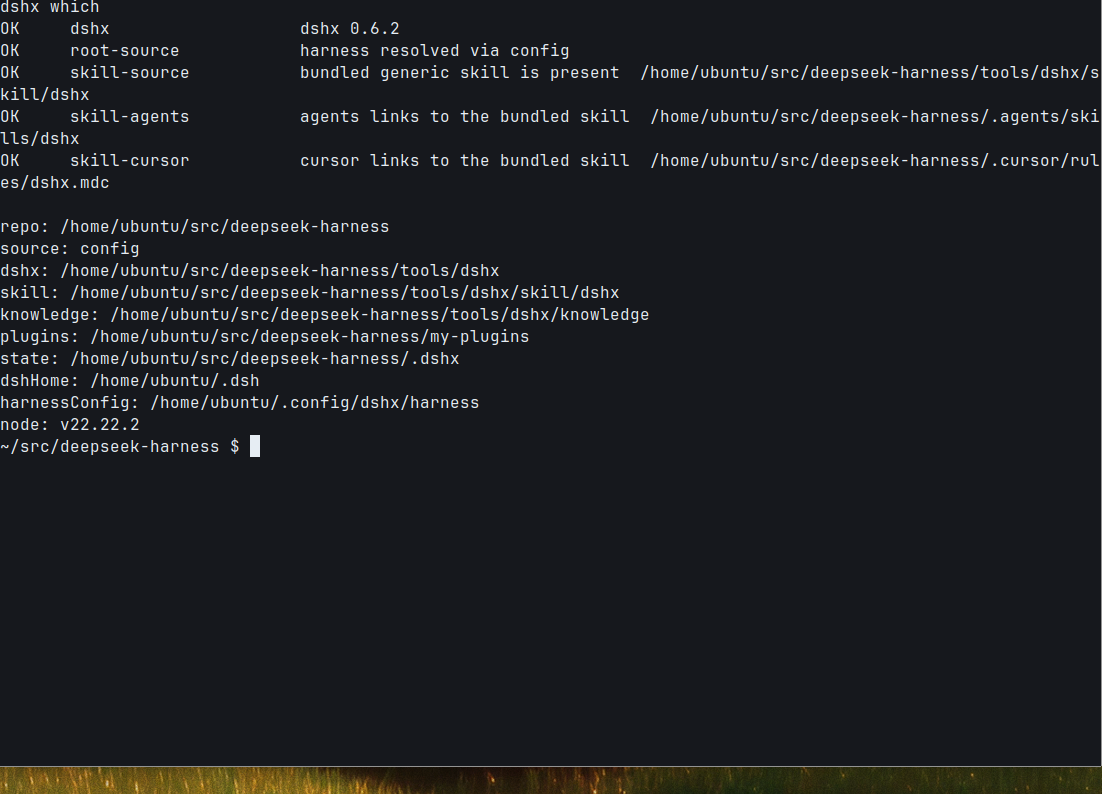
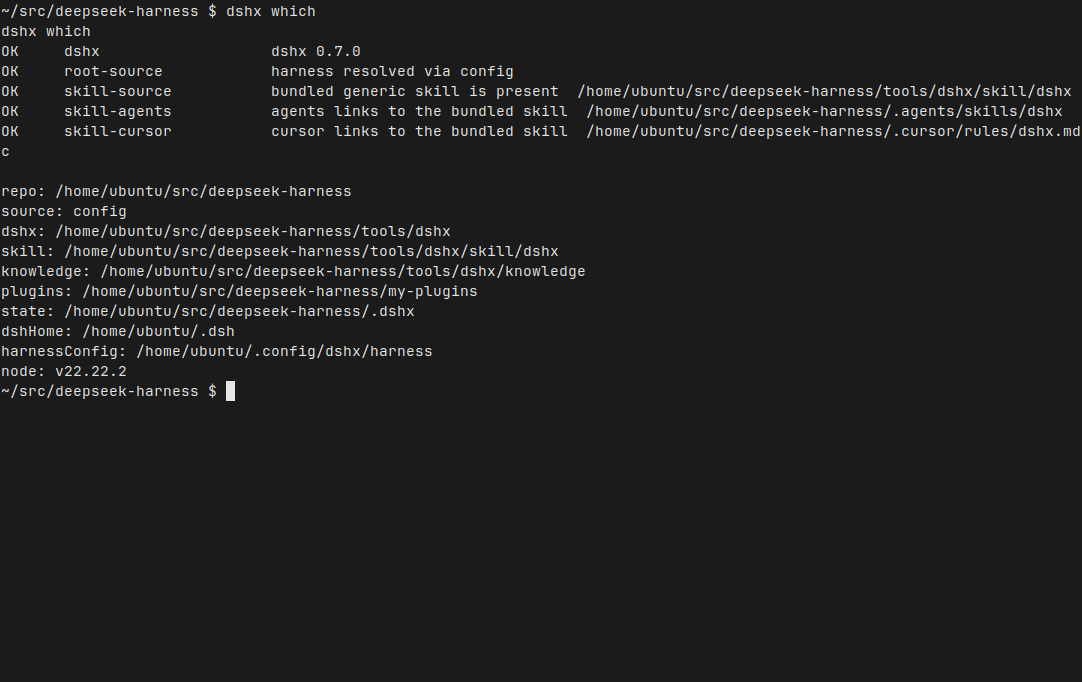
Rewrite the public README for 0.7.0 with real update-assistant shots.
Bilingual pages lead with the transactional Harness update CLI. Stills
and the hero GIF are xfce4-terminal runs of this 0.7.0 tree: setup,
which, doctor, check, activation-plan, update plan, and update verify
against dsh-v0.1.1-rc.2. Official Web UI was not booted.

diff --git a/README.en.md b/README.en.md
@@ -4,11 +4,15 @@
 
 An out-of-process plugin workshop for [DeepSeek Harness](https://github.com/deepseek-ai/deepseek-harness). For Cursor, Claude Code, Codex, Grok, and humans.
 
-Official Creator Mode is for probing a live process. dshx is the other half: write the plugin as files, check the contract, name the layer you changed, then decide whether the Host restarts or the page reloads. It is not `dsh`, not a Harness fork, and not a plugin pack.
+Official Creator Mode is for probing a live process. dshx is the other half: write the plugin as files, check the contract, name the layer you changed, then decide whether the Host restarts or the page reloads. **It is not `dsh`, not a Harness fork, and not a Creator Mode replacement.**
 
-![Local dshx activation-plan run: inventory for the hello plugin, then a patch branch that needs no Host restart and no page reload](docs/screenshots/activation-plan.gif)
+0.7.0 adds a transactional update assistant: official release, candidate build, plugin cold boot, and exact rollback as separate gates. It **does not** restart a production Host for you.
 
-That GIF is the local CLI. This machine has a DeepSeek Harness checkout with dependencies installed, so `doctor` and `activation-plan` can run `dump-config`. The official Web UI was not booted. There is no official window to show.
+![Local xfce4-terminal: `dshx update plan` (rc.8 → rc.2), then `dshx update verify --target dsh-v0.1.1-rc.2`; hello plugin cold-boot passed](docs/screenshots/update-plan.gif)
+
+*2026-08-25 · machine `cursor` (Linux) · `dshx update plan` → `dshx update verify --target dsh-v0.1.1-rc.2`*
+
+That GIF is the local CLI. The Harness checkout is `dsh-v0.1.0-rc.8` with dependencies installed, so `doctor`'s `dump-config` can run. The official Web UI was not booted. There is no official window to show. `dump-config` exiting 0 is not a boot proof.
 
 ## Install
 
@@ -17,50 +21,89 @@ cd /path/to/deepseek-harness
 git clone https://github.com/aa2246740/dsh-external-plugin-devkit.git tools/dshx
 node --import tsx/esm tools/dshx/src/cli.ts setup --harness "$PWD"
 dshx which && dshx doctor
+dshx update plan
 ```
 
-`setup` installs a user launcher and the skill, and remembers this checkout. It does not edit Harness `package.json`, and it does not start or stop DSH.
-
-If more than one checkout is in play, pass `--harness`. Do not let the tool guess.
+`setup` installs a user launcher and the skill, and remembers this checkout. It does not edit Harness `package.json`, and it does not start or stop DSH. If more than one checkout is in play, pass `--harness`.
 
 You can hand the block above to an Agent. `dshx setup --print-prompt` prints the full ask.
 
 ## What it looks like
 
-The five stills below are from the same local run. `dump-config` exited 0 — that is not a boot proof, and the official UI was not opened.
+The stills below are from the same local run. The official UI was not opened.
 
 `setup` puts the launcher in place and leaves the Host alone:
 
 ![dshx setup: launcher, skill, and checkout all OK; notes that it will not start or stop dsh](docs/screenshots/setup.png)
 
-`which` names the Harness checkout and the skill paths in use:
+*2026-08-25 · machine `cursor` (Linux) · `dshx setup`*
 
-![dshx which: 0.6.2, Harness from config, skill linked for agents and Cursor](docs/screenshots/which.png)
+`which` names the Harness checkout and the dshx tree in use:
+
+![dshx which: 0.7.0, Node v22.22.2, Harness from config](docs/screenshots/which.png)
+
+*2026-08-25 · machine `cursor` (Linux) · `dshx which`*
 
 `doctor` is a workshop diagnostic. It is not official `dsh doctor` — that command does not exist:
 
-![dshx doctor: Node, the source launcher, and dump-config pass; dump-config is not a boot proof; no Host is supervised](docs/screenshots/doctor.png)
+![dshx doctor: Node and dump-config (135 rows) pass; dump-config is not a boot proof; no Host is supervised](docs/screenshots/doctor.png)
+
+*2026-08-25 · machine `cursor` (Linux) · `dshx doctor`*
 
 `check` is the on-disk contract. A fresh `init` of `hello` can pass:
 
 ![dshx check hello: manifest, named apply, boot marker, and a relative overlay all OK](docs/screenshots/check.png)
 
+*2026-08-25 · machine `cursor` (Linux) · `dshx check hello`*
+
 `activation-plan` reads disk facts, then takes one changed surface. This run chose `patch`: reconcile in place, do not restart the Host:
 
 ![dshx activation-plan hello --change patch: method is watched cordis.patch.yml; host-restart and browser-reload are not-required](docs/screenshots/activation-plan.png)
 
+*2026-08-25 · machine `cursor` (Linux) · `dshx activation-plan hello --change patch`*
+
+## 0.7.0 update assistant
+
+An update is more than `git pull`. The gates are staged. Without `--target`, DSHX queries the latest official `dsh-v*` release live.
+
+```sh
+dshx update plan
+dshx update prepare --target dsh-v0.1.1-rc.2
+dshx update verify --target dsh-v0.1.1-rc.2
+dshx update apply --target dsh-v0.1.1-rc.2
+dshx update rollback --target dsh-v0.1.1-rc.2
+```
+
+This machine planned `0.1.0-rc.8` → `0.1.1-rc.2`, inventoried one plugin, and was not supervising a Host:
+
+![dshx update plan: current 0.1.0-rc.8 → target 0.1.1-rc.2; no tracked dirty; one plugin](docs/screenshots/update-plan.png)
+
+*2026-08-25 · machine `cursor` (Linux) · `dshx update plan`*
+
+`prepare` does a frozen install and full target-Harness build in an isolated worktree, then copies and builds every plugin. It does not switch the active checkout. `verify` runs the static contract and an isolated cold boot for every candidate plugin — `hello` passed here:
+
+![dshx update verify: candidate build passed; hello build/check/cold-boot all true; 1/1 verify-gate; source plugin bytes untouched](docs/screenshots/update-verify.png)
+
+*2026-08-25 · machine `cursor` (Linux) · `dshx update verify --target dsh-v0.1.1-rc.2`*
+
+`apply` accepts only a complete candidate gate, refuses a supervised Host, transactionally switches to `dshx/<release>`, and keeps an exact backup. `rollback` restores the pre-update branch, dependencies, and plugin `lib/`.
+
+Keep three states distinct:
+
+- **Upgrade complete** — checkout is on the target tag; backups live under `.dshx/update-assistant/`
+- **Live runtime proof** — you ran the Host / browser and saw the behavior
+- **Official activation** — the single branch from `activation-plan` actually mounted
+
+The assistant does not restart a production Host. See [knowledge/contracts/harness-update.md](knowledge/contracts/harness-update.md).
+
 ## There is no universal hot reload
 
-A watched patch, a next-boot bundle, a user preset, a client already on the page, a new client entry, a server module, and a copied artifact are seven different states. Read the contract, then pick one branch:
-
-Keep the same DSH PID by default and classify the runtime surface that must change. A plain profile dependency is a resolution prerequisite, not manifest activation or restart evidence. A first Web client remains `new-client` even though its activation writes a dependency: hot-mount the Host row, then reload/reopen the page. Only boot-captured bundle composition or a server module without tested HMR authorizes a normal Host restart.
+A watched patch, a next-boot bundle, a user preset, a client already on the page, a new client entry, a server module, and a copied artifact are seven different states. Keep the same DSH PID by default. A plain dependency is not `manifest` activation and not a restart reason.
 
 ```sh
 dshx kb cat contracts/live-activation
 dshx activation-plan <plugin> --change patch
 ```
-
-The matrix lives in [knowledge/contracts/live-activation.md](knowledge/contracts/live-activation.md).
 
 ## A normal day
 
@@ -69,25 +112,6 @@ dshx init demo --kind function
 dshx check demo
 dshx activation-plan demo --change patch
 ```
-
-## Harness update assistant
-
-An update is more than `git pull`. DSHX 0.7.0 gates the official release, the Harness build, every local plugin, and exact rollback as separate phases:
-
-```sh
-dshx update plan
-dshx update prepare --target dsh-v0.1.1-rc.2
-dshx update verify --target dsh-v0.1.1-rc.2
-dshx update apply --target dsh-v0.1.1-rc.2
-```
-
-- `plan` reads official `dsh-v*` tags, the current checkout, tracked-dirty risk, and directory/symlink plugin inventory without mutation.
-- `prepare` performs a frozen install and full target-Harness build in an isolated worktree, then copies and builds every plugin. It does not switch the active Harness.
-- `verify` runs the static contract and an isolated cold boot for every candidate plugin. RC2 Web clients use the native profile package seam and must appear in the boot graph with a 200 `client.js`; server-only plugins must emit their `apply()` marker.
-- `apply` accepts only a complete candidate gate, refuses a supervised Host, transactionally switches to `dshx/<release>`, rebuilds the actual plugins, and saves exact checkout, dependency-tree, and plugin-`lib/` backups.
-- `rollback` restores the pre-update branch, dependencies, and generated plugin artifacts: `dshx update rollback --target <release>`.
-
-Without `--target`, DSHX queries the latest official release live. The assistant does not restart a production Host: applied bytes, real-runtime acceptance, and production activation remain separate states. See [knowledge/contracts/harness-update.md](knowledge/contracts/harness-update.md).
 
 Use `verify-boot` only when you need an isolated cold-boot proof. Use `sync-artifact` only when a package must land in the profile — it will say `ARTIFACT_SYNCED; LIVE_ACTIVATION_UNPROVEN` and stop there.
 

diff --git a/README.md b/README.md
@@ -4,11 +4,15 @@
 
 DeepSeek Harness 的进程外插件工作台。给 Cursor、Claude Code、Codex、Grok 和人用。
 
-官方 Creator Mode 适合在活进程里探针。dshx 管另一半：把插件写成文件、检查合同、看这次改的是哪一层，再决定要不要重启 Host、刷新页面。它不是 `dsh`，不是 Harness 的 fork，也不是一包现成插件。
+官方 Creator Mode 适合在活进程里探针。dshx 管另一半：把插件写成文件、检查合同、看这次改的是哪一层，再决定要不要重启 Host、刷新页面。**不是 `dsh`，不是 Harness 的 fork，也不是 Creator Mode 的替代品。**
 
-![在本机跑 dshx activation-plan：先打出 hello 插件的盘上事实，再给出 patch 分支——Host 不用重启，页面也不用刷新](docs/screenshots/activation-plan.gif)
+0.7.0 加上事务化更新助手：官方 release、候选构建、插件冷启动、精确回滚分阶段过门。它**不会**替你重启正式 Host。
 
-上面是本机刚跑过的 CLI。这台机器有一份 DeepSeek Harness 源码，依赖也装上了，所以 `doctor` / `activation-plan` 能跑 `dump-config`。官方 Web UI 没有起来，所以没有官方窗口。
+![本机 xfce4-terminal：先 `dshx update plan`（rc.8 → rc.2），再 `dshx update verify --target dsh-v0.1.1-rc.2`，hello 插件 cold-boot 通过](docs/screenshots/update-plan.gif)
+
+*2026-08-25 · 机器 `cursor`（Linux）· `dshx update plan` → `dshx update verify --target dsh-v0.1.1-rc.2`*
+
+上面是本机刚跑过的 CLI。Harness 在 `dsh-v0.1.0-rc.8`，依赖已装，所以 `doctor` 的 `dump-config` 能过。官方 Web UI 没有起来，所以没有官方窗口。`dump-config` 退出 0 不是 boot 证明。
 
 ## 装上就能用
 
@@ -17,77 +21,97 @@ cd /path/to/deepseek-harness
 git clone https://github.com/aa2246740/dsh-external-plugin-devkit.git tools/dshx
 node --import tsx/esm tools/dshx/src/cli.ts setup --harness "$PWD"
 dshx which && dshx doctor
+dshx update plan
 ```
 
-`setup` 只装用户 launcher 和 skill，记住这个 checkout。不改 Harness 的 `package.json`，也不启停 DSH。
-
-多个 checkout 同时在场时，加上 `--harness`，不要让工具猜。
+`setup` 只装用户 launcher 和 skill，记住这个 checkout。不改 Harness 的 `package.json`，也不启停 DSH。多个 checkout 同时在场时加上 `--harness`。
 
 把上面这段交给 Agent 也行；`dshx setup --print-prompt` 会打出完整说明。
 
 ## 它实际长这样
 
-下面五张也是同一次本机演示。`dump-config` 通过了——这不是 boot 证明，官方界面也没开。
+同一次本机演示。官方界面没开。
 
 `setup` 装好 launcher，不碰 Host：
 
-![dshx setup：launcher、skill、checkout 都 OK，并写明不会启停 dsh](docs/screenshots/setup.png)
+![dshx setup：launcher、skill、checkout 都 OK；写明不会启停 dsh](docs/screenshots/setup.png)
 
-`which` 说出这次用的是哪份 Harness、哪份 skill：
+*2026-08-25 · 机器 `cursor`（Linux）· `dshx setup`*
 
-![dshx which：0.6.2，Harness 来自 config，skill 已链到 agents 和 Cursor](docs/screenshots/which.png)
+`which` 说出这次用的是哪份 Harness、哪份 dshx：
+
+![dshx which：0.7.0，Node v22.22.2，Harness 来自 config](docs/screenshots/which.png)
+
+*2026-08-25 · 机器 `cursor`（Linux）· `dshx which`*
 
 `doctor` 是工作台诊断，不是官方 `dsh doctor`（那个命令不存在）：
 
-![dshx doctor：Node、源码 launcher、dump-config 都通过；dump-config 不是 boot 证明；没有在监督 Host](docs/screenshots/doctor.png)
+![dshx doctor：Node、dump-config 135 行通过；dump-config 不是 boot 证明；没有在监督 Host](docs/screenshots/doctor.png)
+
+*2026-08-25 · 机器 `cursor`（Linux）· `dshx doctor`*
 
 `check` 看的是落盘合同。刚 `init` 出来的 `hello` 可以通过：
 
 ![dshx check hello：manifest、named apply、boot marker、相对路径 overlay 全部 OK](docs/screenshots/check.png)
 
+*2026-08-25 · 机器 `cursor`（Linux）· `dshx check hello`*
+
 `activation-plan` 只读盘上事实，然后只选一个变更面。这次是 `patch`：热重组，不重启 Host：
 
 ![dshx activation-plan hello --change patch：activation-method 是 watched cordis.patch.yml；host-restart / browser-reload 都是 not-required](docs/screenshots/activation-plan.png)
 
-## 没有万能热重载
+*2026-08-25 · 机器 `cursor`（Linux）· `dshx activation-plan hello --change patch`*
 
-改 watched patch、下次启动的 bundle、用户 preset、已经在页面里的 client、新的 client 入口、服务端模块，或只是拷了产物——这七种不是同一个动作。先读合同，再让 `activation-plan` 选一条分支：
+## 0.7.0 更新助手
 
-默认保持同一个 DSH PID，并按真正要改变的运行时表面分类。普通 profile dependency 只是解析前提，不是 `manifest` activation，也不是重启理由；首次 Web client 即使写入 dependency，仍走 `new-client`，Host 热挂后只刷新/重开页面。只有启动时捕获的 bundle composition 或没有专项 HMR 的 server module 才授权重启。
-
-```sh
-dshx kb cat contracts/live-activation
-dshx activation-plan <plugin> --change patch
-```
-
-完整矩阵在 [knowledge/contracts/live-activation.md](knowledge/contracts/live-activation.md)。
-
-## 日常怎么走
-
-```sh
-dshx init demo --kind function
-dshx check demo
-dshx activation-plan demo --change patch
-```
-
-## Harness 更新助手
-
-更新不是一次 `git pull`。DSHX 0.7.0 把官方 release、Harness 构建、全部本地插件和精确回滚放进一个分阶段门禁：
+更新不是一次 `git pull`。分阶段门禁；省略 `--target` 时会实时查询官方最新 `dsh-v*` release。
 
 ```sh
 dshx update plan
 dshx update prepare --target dsh-v0.1.1-rc.2
 dshx update verify --target dsh-v0.1.1-rc.2
 dshx update apply --target dsh-v0.1.1-rc.2
+dshx update rollback --target dsh-v0.1.1-rc.2
 ```
 
-- `plan` 只读官方 `dsh-v*` tag、当前 checkout、tracked dirty 风险、目录与 symlink 插件清单。
-- `prepare` 在隔离 worktree 冻结安装并完整构建目标 Harness，再复制和构建全部插件；不切换当前 Harness。
-- `verify` 对每个候选插件执行静态合同和隔离冷启动。RC2 Web 客户端走原生 profile 包解析，同时证明启动图条目与 `client.js` 200；服务端-only 插件证明 `apply()` marker。
-- `apply` 只接受完整候选门禁，拒绝正在监督的 Host，事务化切到 `dshx/<release>`、重建实际插件，并保存 checkout、依赖树和插件 `lib/` 的精确备份。
-- `rollback` 恢复升级前分支、依赖与插件生成物：`dshx update rollback --target <release>`。
+这次本机从 `0.1.0-rc.8` 规划到 `0.1.1-rc.2`，1 个插件入账，没有监督中的 Host：
 
-省略 `--target` 时会实时查询官方最新 release。更新助手不会替你重启正式 Host；升级完成、真实运行时验收和正式激活仍是三个不同状态。详细合同见 [knowledge/contracts/harness-update.md](knowledge/contracts/harness-update.md)。
+![dshx update plan：current 0.1.0-rc.8 → target 0.1.1-rc.2；无 tracked dirty；1 个插件](docs/screenshots/update-plan.png)
+
+*2026-08-25 · 机器 `cursor`（Linux）· `dshx update plan`*
+
+`prepare` 在隔离 worktree 冻安装并完整构建目标 Harness，再复制构建全部插件；不切换当前 checkout。`verify` 对每个候选插件做静态合同和隔离冷启动——本机 `hello` 过了：
+
+![dshx update verify：candidate 构建通过；hello build/check/cold-boot 全 true；1/1 verify-gate；源插件字节未改](docs/screenshots/update-verify.png)
+
+*2026-08-25 · 机器 `cursor`（Linux）· `dshx update verify --target dsh-v0.1.1-rc.2`*
+
+`apply` 只接受完整候选门禁，拒绝正在监督的 Host，事务化切到 `dshx/<release>` 并留下精确备份。`rollback` 恢复升级前的分支、依赖和插件 `lib/`。
+
+三件事情不要混：
+
+- **升级完成** — checkout 已切到目标 tag，备份落在 `.dshx/update-assistant/`
+- **真实运行时验收** — 你自己跑 Host / 浏览器，看到行为
+- **正式激活** — 按 `activation-plan` 选中的那一条分支挂上
+
+更新助手不重启正式 Host。详细合同见 [knowledge/contracts/harness-update.md](knowledge/contracts/harness-update.md)。
+
+## 没有万能热重载
+
+改 watched patch、下次启动的 bundle、用户 preset、已经在页面里的 client、新的 client 入口、服务端模块，或只是拷了产物——这七种不是同一个动作。默认保持同一个 DSH PID。普通 dependency 不是 `manifest`，也不是重启理由。
+
+```sh
+dshx kb cat contracts/live-activation
+dshx activation-plan <plugin> --change patch
+```
+
+## 日常
+
+```sh
+dshx init demo --kind function
+dshx check demo
+dshx activation-plan demo --change patch
+```
 
 需要隔离冷启动证明时才 `verify-boot`。需要把包装进 profile 时才 `sync-artifact`——它只会告诉你 `ARTIFACT_SYNCED; LIVE_ACTIVATION_UNPROVEN`。
 
